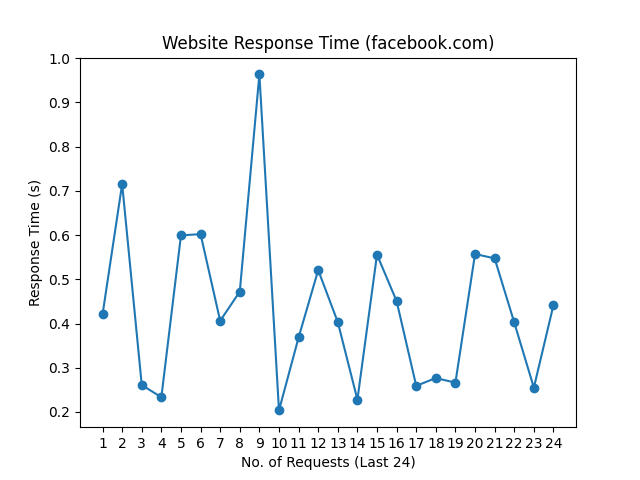
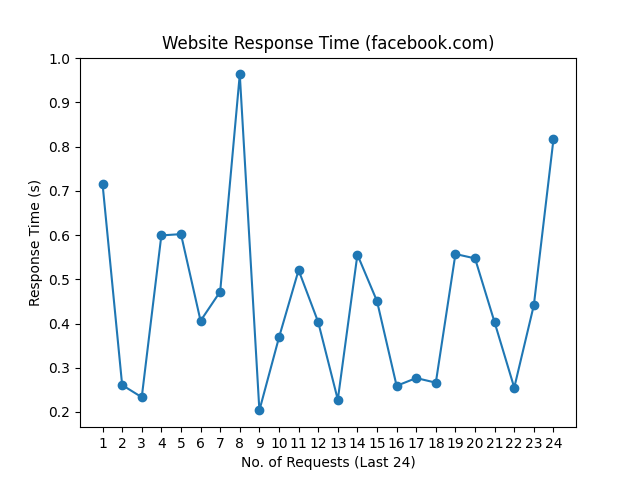
update README.md, history and graph

Changed region(s): [[0.1562, 0.125, 0.875, 0.875], [0.8438, 0.2812, 0.875, 0.5312]]

diff --git a/README.md b/README.md
@@ -1,10 +1,10 @@
 # Web Monitoring
 
-Last Checked: 24/08/2024 08:17
+Last Checked: 25/08/2024 08:19
 
 | Website | Response Time (s) | Status | Avg Uptime (%) |
 |---------|-------------------|--------|----------------|
 | www.thiswebsiteisdown.net | 0 <br> <img src="graph/thiswebsiteisdown.net.png" alt="Graph" width="200" height="200">  | ❌ Down | 0.00 |
-| www.netflix.com | 0.917266 <br> <img src="graph/netflix.com.png" alt="Graph" width="200" height="200">  | ✅ Up | 100.00 |
-| www.google.com | 0.168974 <br> <img src="graph/google.com.png" alt="Graph" width="200" height="200">  | ✅ Up | 100.00 |
-| www.facebook.com | 0.441549 <br> <img src="graph/facebook.com.png" alt="Graph" width="200" height="200">  | ✅ Up | 100.00 |
+| www.netflix.com | 0.647368 <br> <img src="graph/netflix.com.png" alt="Graph" width="200" height="200">  | ✅ Up | 100.00 |
+| www.google.com | 0.046468 <br> <img src="graph/google.com.png" alt="Graph" width="200" height="200">  | ✅ Up | 100.00 |
+| www.facebook.com | 0.816188 <br> <img src="graph/facebook.com.png" alt="Graph" width="200" height="200">  | ✅ Up | 100.00 |
